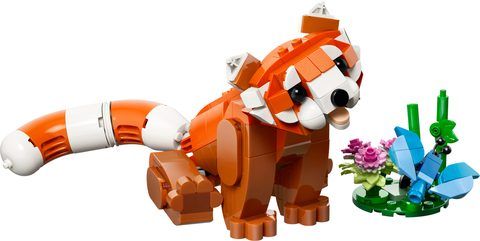
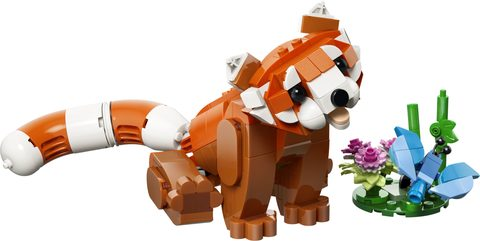
Real LEGO.com CDN images for 10318 + 31394; verified 31395 nonexistent (use 31394 img), Orchid stays placeholder

diff --git a/scripts/convert_lego_cdn.py b/scripts/convert_lego_cdn.py
@@ -1,0 +1,18 @@
+#!/usr/bin/env python3
+"""Convert LEGO CDN images fetched to /tmp into repo thumbnails (img/*.jpg)."""
+from PIL import Image
+
+# 10318 from LEGO CDN (JPEG 1500x445)
+im = Image.open('/tmp/10318.png').convert('RGB')
+im.thumbnail((480, 480), Image.LANCZOS)
+im.save('img/10318.jpg', 'JPEG', quality=82, optimize=True, progressive=True)
+
+# 31394 from LEGO CDN (PNG 1207px with alpha -> flatten onto white)
+im = Image.open('/tmp/31394.png')
+bg = Image.new('RGB', im.size, (255, 255, 255))
+bg.paste(im, mask=im.split()[-1])
+bg.thumbnail((480, 480), Image.LANCZOS)
+bg.save('img/31394.jpg', 'JPEG', quality=82, optimize=True, progressive=True)
+
+for f in ('img/10318.jpg', 'img/31394.jpg'):
+    print(f, Image.open(f).size)

diff --git a/README.md b/README.md
@@ -50,9 +50,15 @@ Hermes Agent on vavario (vision extraction from photos), 27 Sep 2026.
 
 ## LEGO.com image sync
 
-Set images are stored in `img/` (480px JPEGs, from the Rebrickable CDN).
-Three sets have no image available anywhere (`10310`, `10318`, `31395`) and
-use generated placeholders.
+Set images are stored in `img/` (480px JPEGs). 872 come from the Rebrickable
+CDN; `10318` (Concorde) and `31394` (Red Panda) are official LEGO.com CDN
+images fetched via a real-browser session. `10310` (Orchid) has no image
+available anywhere (removed from lego.com, absent from Rebrickable) and uses
+a generated placeholder; the same placeholder-style image covers `31395`.
+
+`31395` does not exist on lego.com (verified by code search) — the price
+sheet's duplicate row labelled 31395 is almost certainly `31394` (Cute
+Animals: Red Panda) printed twice; the row stays flagged `needs_review`.
 
 [`sync.html`](https://vavar.github.io/lego-sale-price/sync.html) is a helper
 page (runs in *your* browser, since lego.com blocks datacenter IPs) that
